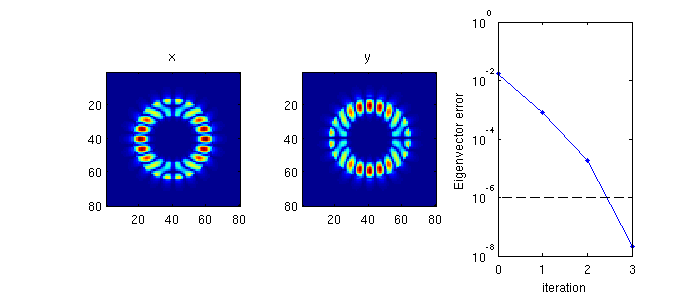
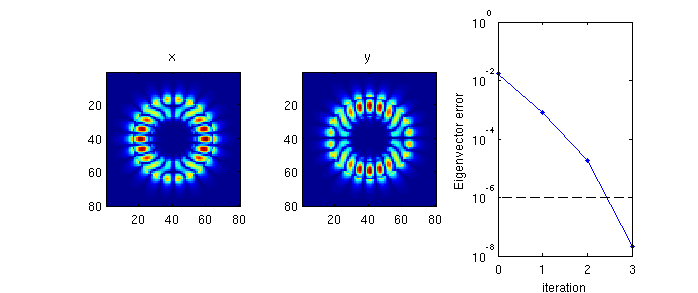
Started on eigen optimization.

Changed region(s): [[0.1504, 0.2765, 0.3309, 0.6758], [0.4513, 0.2765, 0.6318, 0.6758]]

diff --git a/html/solve_2D_mode_example.html b/html/solve_2D_mode_example.html
@@ -62,7 +62,7 @@ p.footer {
   color: gray;
 }
 
-  </style></head><body><div class="content"><h2>Contents</h2><div><ul><li><a href="#1">solve_2D_mode_example</a></li><li><a href="#3">Create the simulation</a></li><li><a href="#4">Form matrices and function handles</a></li><li><a href="#6">Run the eigenmode solver function</a></li><li><a href="#8">Obtaining the right eigenvector</a></li></ul></div><h2>solve_2D_mode_example<a name="1"></a></h2><p>Shows how an eigenmode of a 2D structure can quickly be found in Matlab.</p><pre class="codeinput"><span class="comment">% Make this a function instead of a script to allow for nested function definitions.</span>
+  </style></head><body><div class="content"><h1>solve_2D_mode_example</h1><!--introduction--><p>Shows how an eigenmode of a 2D structure can quickly be found in Matlab.</p><!--/introduction--><h2>Contents</h2><div><ul><li><a href="#1">Description</a></li><li><a href="#3">Create the simulation</a></li><li><a href="#4">Form matrices and function handles</a></li><li><a href="#6">Run the eigenmode solver function</a></li><li><a href="#8">Obtaining the right eigenvector</a></li></ul></div><h2>Description<a name="1"></a></h2><p>Very simplay to <tt>solve_2D_example</tt>, except that we now solve for the eigenmode of a ring resonator.</p><pre class="codeinput"><span class="comment">% Make this a function instead of a script to allow for nested function definitions.</span>
 <span class="keyword">function</span> [] = solve_2D_mode_example()
 </pre><h2>Create the simulation<a name="3"></a></h2><p>We use the <tt>add_planar</tt> and <tt>stretched_coordinates</tt> functions to create our structure as well as our simulation grid.</p><pre class="codeinput">    dims = [80 80 1]; <span class="comment">% Size of the simulation.</span>
     omega = 0.18; <span class="comment">% Frequency of the simulation.</span>
@@ -117,8 +117,9 @@ p.footer {
     <span class="comment">% In-line function for visualization of progress.</span>
     <span class="keyword">function</span> my_vis(lambda, v)
         colormap <span class="string">jet</span>
+        x = v ./ sqrt(e);
         <span class="keyword">for</span> k = 1 : 3
-            E{k} = reshape(v((k-1)*n+1 : k*n), dims);
+            E{k} = reshape(x((k-1)*n+1 : k*n), dims);
             subplot(1, 3, k)
             imagesc(abs(E{k})'); axis <span class="string">equal</span> <span class="string">tight</span>; <span class="comment">% abs looks better than real :).</span>
             title(xyz(k));
@@ -151,6 +152,10 @@ p.footer {
 ##### SOURCE BEGIN #####
 %% solve_2D_mode_example
 % Shows how an eigenmode of a 2D structure can quickly be found in Matlab.
+
+%% Description
+% Very simplay to |solve_2D_example|, except that we now solve for 
+% the eigenmode of a ring resonator.
 
 % Make this a function instead of a script to allow for nested function definitions.
 function [] = solve_2D_mode_example()
@@ -223,8 +228,9 @@ function [] = solve_2D_mode_example()
     % In-line function for visualization of progress.
     function my_vis(lambda, v)
         colormap jet 
+        x = v ./ sqrt(e);
         for k = 1 : 3
-            E{k} = reshape(v((k-1)*n+1 : k*n), dims);
+            E{k} = reshape(x((k-1)*n+1 : k*n), dims);
             subplot(1, 3, k)
             imagesc(abs(E{k})'); axis equal tight; % abs looks better than real :).
             title(xyz(k));

diff --git a/solve_2D_mode_example.m b/solve_2D_mode_example.m
@@ -1,6 +1,10 @@
 %% solve_2D_mode_example
 % Shows how an eigenmode of a 2D structure can quickly be found in Matlab.
 
+%% Description
+% Very simplay to |solve_2D_example|, except that we now solve for 
+% the eigenmode of a ring resonator.
+
 % Make this a function instead of a script to allow for nested function definitions.
 function [] = solve_2D_mode_example()
 
@@ -72,8 +76,9 @@ function [] = solve_2D_mode_example()
     % In-line function for visualization of progress.
     function my_vis(lambda, v)
         colormap jet 
+        x = v ./ sqrt(e);
         for k = 1 : 3
-            E{k} = reshape(v((k-1)*n+1 : k*n), dims);
+            E{k} = reshape(x((k-1)*n+1 : k*n), dims);
             subplot(1, 3, k)
             imagesc(abs(E{k})'); axis equal tight; % abs looks better than real :).
             title(xyz(k));
